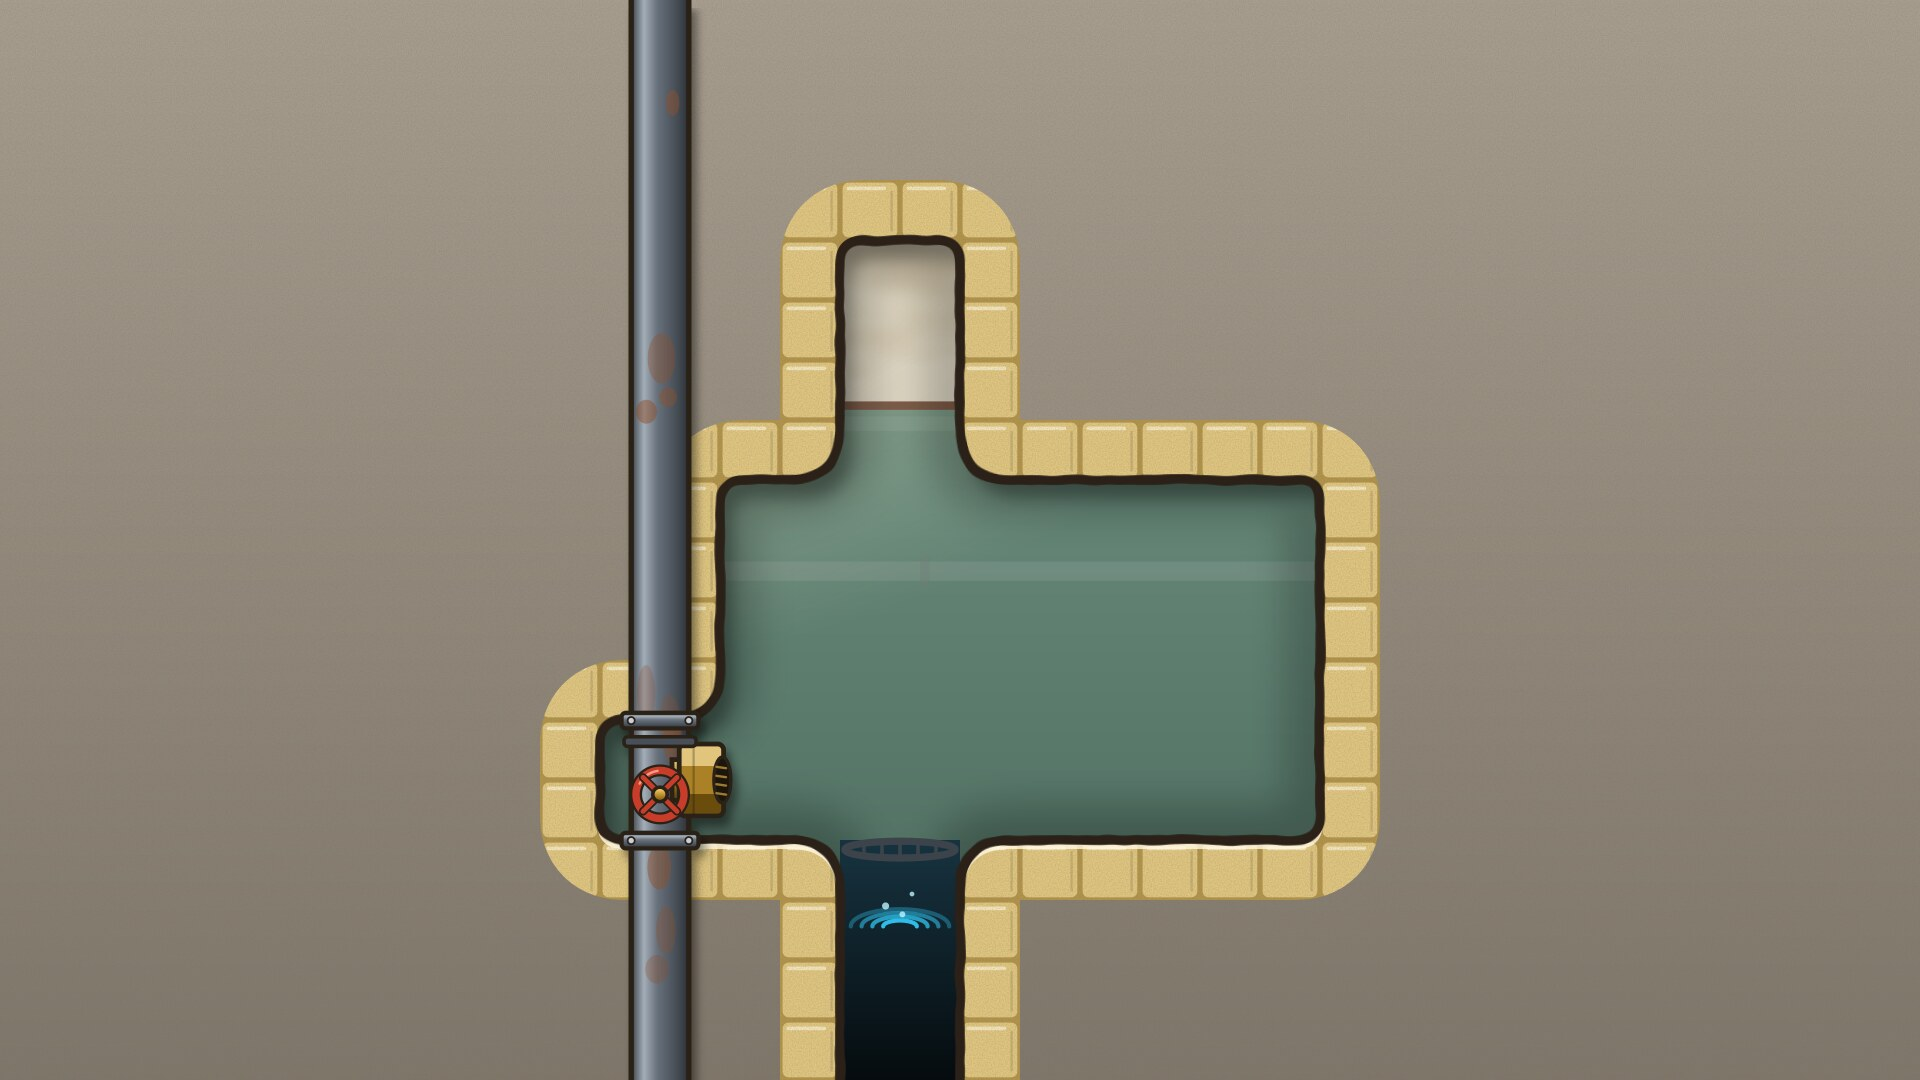
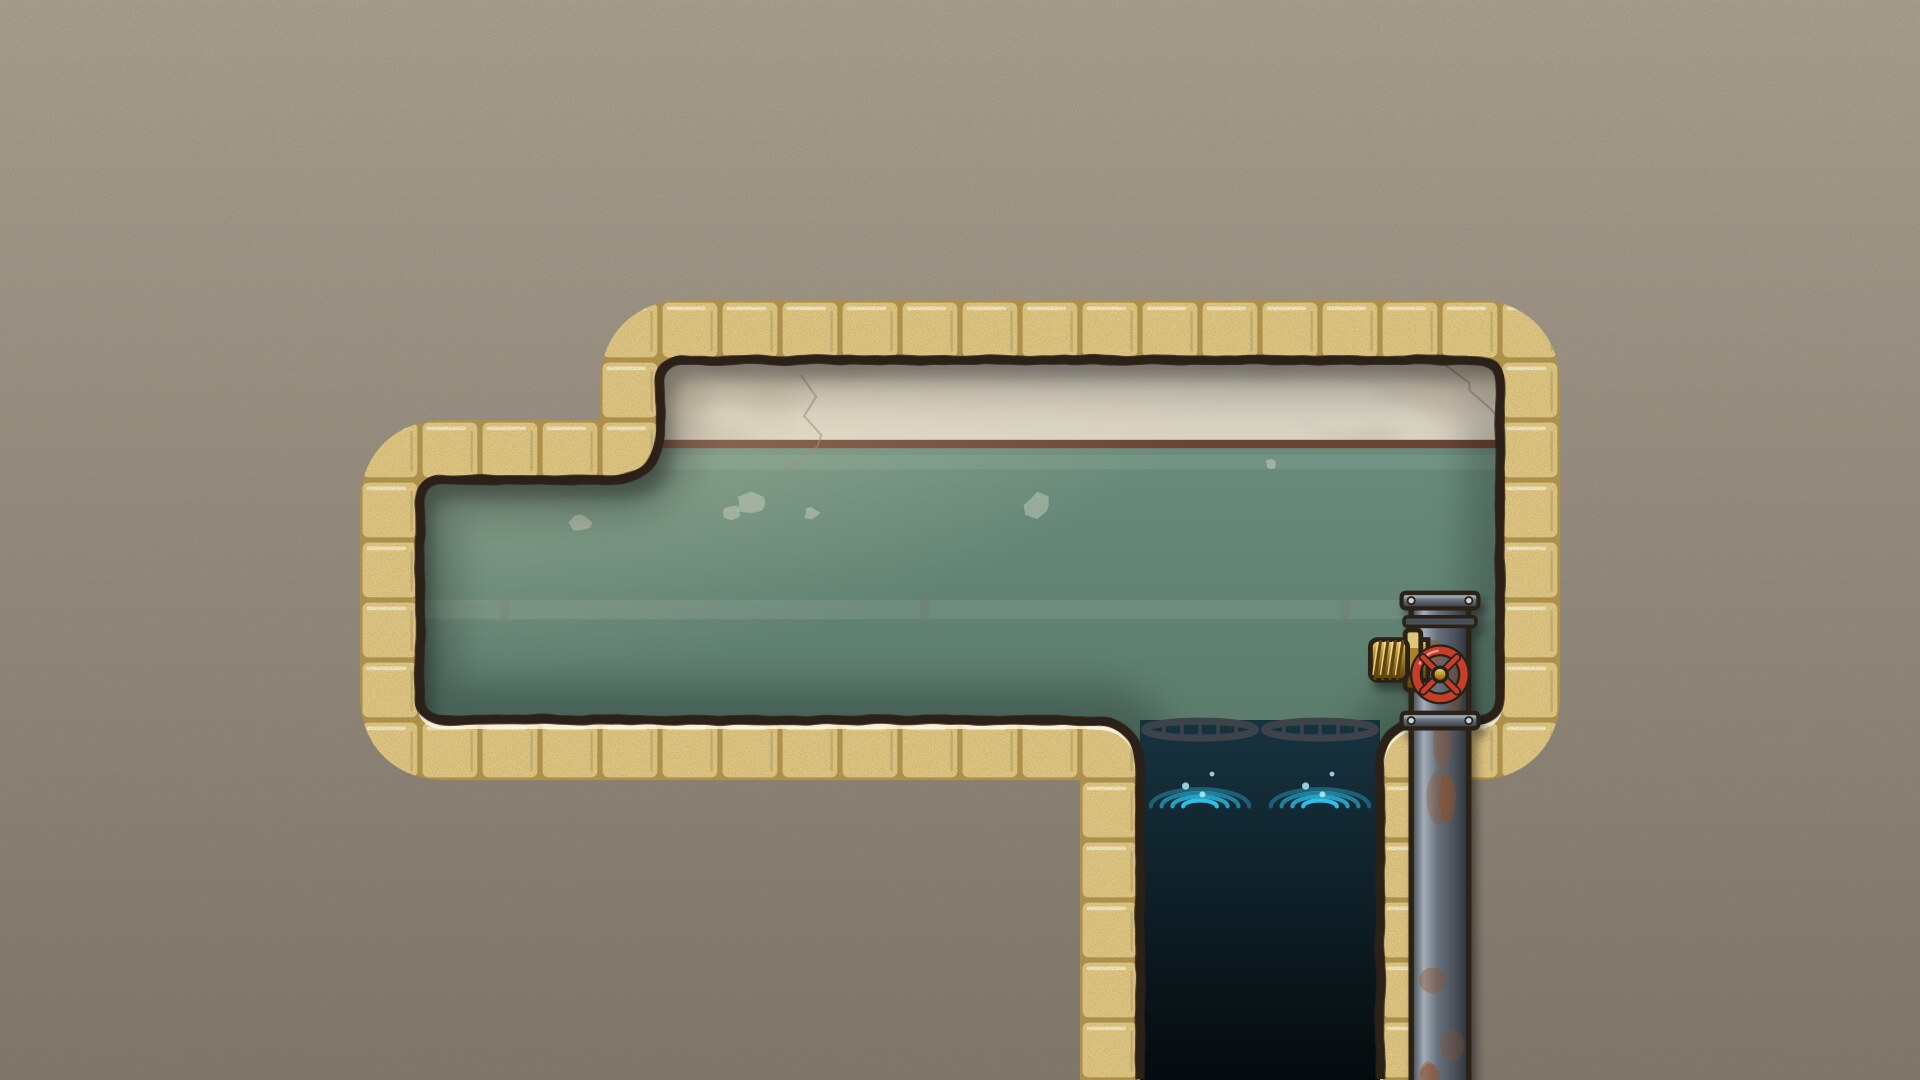
Кв. 6: ядро «муфтой вперёд» в levels/06.lua, отчёты 1–6, новый фон и спрайты деталей
Claude-Session: https://claude.ai/code/session_01KTF9zcDbthXae1taWntBSd

diff --git a/art/export6.py b/art/export6.py
@@ -1,0 +1,36 @@
+#!/usr/bin/env python3
+# -*- coding: utf-8 -*-
+"""art/export6.py — быстрая выгрузка только того, что меняется у кв. 6: фон lvl06 и спрайты её деталей.
+Использует те же функции, что art/export.py (полный экспорт ~2,5 мин)."""
+import os, subprocess, sys
+sys.path.insert(0, os.path.dirname(os.path.abspath(__file__)))
+import gen, gen2, screens2
+from gen import G
+from gen2 import frame, defs2
+
+OUT = os.path.join(gen2.ROOT, 'assets', 'gfx')
+TMP = os.path.join(gen2.ROOT, 'build', 'gfx_svg')
+os.makedirs(TMP, exist_ok=True)
+DEFS = gen.DEFS + defs2(120, 0, 0, 'mint') + screens2.tile_pat('tpM', 120, 'mint') + screens2.tile_pat('tpB', 120, 'blue') + screens2.tile_pat('tpY', 120, 'mustard')
+CR = 240
+
+
+def out(name, body, w, h, extra='', base=True):
+    svg = os.path.join(TMP, name + '.svg')
+    with open(svg, 'w', encoding='utf-8') as f:
+        f.write('<svg xmlns="http://www.w3.org/2000/svg" xmlns:xlink="http://www.w3.org/1999/xlink" width="%d" height="%d" viewBox="0 0 %d %d"><defs>%s%s</defs>%s</svg>'
+                % (w, h, w, h, DEFS if base else gen.DEFS, extra, body))
+    subprocess.run(['rsvg-convert', '-w', str(w), '-h', str(h), '-o', os.path.join(OUT, name + '.png'), svg], check=True)
+    print(name)
+
+
+SIG = {'up': 'u', 'right': 'r', 'down': 'd', 'left': 'l'}
+for lv in screens2.L:
+    if lv['id'] != 6:
+        continue
+    for ob in lv['objects']:
+        if ob['kind'] == 'fitting':
+            sig = ''.join(SIG[d] + ob['ports'][d] for d in ('up', 'right', 'down', 'left') if d in ob['ports'])
+            out('fit_' + sig, G(gen2.fitting2(CR, CR, CR, ob['ports']), filter='url(#dsh)'), 2 * CR, 2 * CR)
+    body, extra, _ = frame(lv, no_lap=True, hud=False, skip=('fixture', 'porcelain', 'fitting'))
+    out('lvl06', body, 1920, 1080, extra, base=False)

diff --git a/reports/metrics.md b/reports/metrics.md
@@ -11,11 +11,11 @@
 | 3 | «Мыло» | 11×8 | 2–5 | 0 | 9040 (≤ 100000) | 43 (25–45) | 80.3% (≥ 35%) | 9 (≥ 2) | 1 | 0 % | 6 (3) | без фаянса: нерешаем ✓ | ✅ |
 | 4 | «Резьба» | 11×8 | 2–4 | 0 | 2700 (≤ 300000) | 26 (30–50) | 68.6% (≥ 40%) | 6 (≥ 2) | 1 | 0 % | 6 (3) | без деталей: нерешаем ✓ | ⚠ ходы вне коридора |
 | 5 | «Лишний выход» | 9×7 | 2–4 | 0 | 1682 (≤ 100000) | 15 (12–40) | 41.7% (≥ 35%) | 1 (≥ 1) | 1 | 0.05 % | 1 (1) | без заглушки: нерешаем ✓; тройник заглушён заранее: нерешаем ✓; ступенька запрещена: нерешаем ✓ | ✅ |
-| 6 | «Намертво» | 8×7 | 3–5 | 0 | 3258 (≤ 1000000) | 17 (12–40) | 70.8% (≥ 50%) | 9 (≥ 3) | 1 | 0 % | 4 (3) | без ниппеля: нерешаем ✓; кран запрещён: нерешаем ✓; деталь не падает: нерешаем ✓ | ✅ |
+| 6 | «Намертво» | 11×5 | 3–5 | 0 | 30969 (≤ 1000000) | 23 (15–40) | 86.2% (≥ 50%) | 10 (≥ 3) | 1 | 0 % | 2 (2) | без ниппеля: нерешаем ✓; без муфты: нерешаем ✓; пара не держит муфту над сливом: нерешаем ✓; ниппель не переходит муфту поверху: нерешаем ✓ | ✅ |
 
 Принятые отклонения (⚠):
 - Кв. 1: ложных веток 0: на 211 состояниях областей ≥ 50 не бывает, ошибки здесь наказываются сразу (слив), а не тихим тупиком.
 - Кв. 2: 19 ходов при коридоре 22–38: перебор 384 вариантов не дал 22+ с сохранением ловушек; решает плейтест.
 - Кв. 4: 26 ходов при коридоре 30–50: старт перенесён к деталям (25.09), дорога без событий 18 → 10 ходов, ложных веток 2 → 6.
 - Кв. 5: минимальная раскладка 9×7: 15 ходов вместо коридора 35–60 — по решению Lao красота важнее длины; идея §6 доказана абляцией «ступенька запрещена».
-- Кв. 6: минимальная раскладка 8×7: 17 ходов вместо коридора 40–70 — красота важнее длины, как в кв. 1 и 5; теорема «он сам себе кран» доказана абляциями «кран запрещён» и «деталь не падает».
+- Кв. 6: ядро «муфтой вперёд» 11×5 (второй поиск 28.09, build/l6c): 23 хода в коридоре; «ага» доказана абляциями «пара не держит муфту над сливом» и «ниппель не переходит муфту поверху».

diff --git a/BUILDLOG.md b/BUILDLOG.md
@@ -182,3 +182,8 @@
 - Разбор по просьбе Lao: кв. 6 не проходит планку «гениальности» (видимые тупики 92 %, умная обезьяна 1,01 %, узкое
   место одно, абляции тавтологичны). Новый инструмент tools/review.lua; разбор кв. 1–5 той же меркой (см. HANDOFF).
   Предложены новые ворота; Lao согласился переделать ядро кв. 6 («Намертво» из §6 + кран), затем кв. 4 и 3.
+- 28.09: второй поиск ядра кв. 6 (build/l6c, 5 направлений + проверка скептиком). Честно прошло одно ядро —
+  «муфтой вперёд» (r9); Lao принял. levels/06.lua: 11×5, длина 3–5, муфта и ниппель, 23 хода, скрытых 68 %
+  (47 % при консервативной разметке), умная обезьяна 0,00 %, наобум 0,000 %, ширина 2, прогулка 4; четыре абляции
+  нерешаемы. run_all 1–6, review 1–6, автопрохождение 01–06 WIN. Арт: новый фон lvl06, спрайты fit_rVlV и fit_rNlN
+  (art/export6.py — быстрая выгрузка только кв. 6).

diff --git a/HANDOFF.md b/HANDOFF.md
@@ -6,6 +6,9 @@
 > (tools/cloud_setup.sh) или `bash tools/setup_sandbox.sh`. Шаг 4 про фоновые процессы в облаке мягче, но после
 > простоя машина пересоздаётся — результаты долгих прогонов сразу пишем в файлы и коммитим.
 
+> **28.09.2026 — кв. 6 пересобрана:** ядро «муфтой вперёд» (build/l6c/README.md) принято Lao и стоит в levels/06.lua,
+> проходит все ворота. Пункт 1 раздела «ДАЛЬШЕ» закрыт; следующий — карточка «7 · Поднимает, но не носит» (п. 2), затем кв. 4, 3.
+
 ## Как продолжить
 1. `mkdir -p /home/claude/lapidus && cd /home/claude && unzip -q /mnt/user-data/uploads/lapidus_checkpoint_phase6a.zip`
    (в архиве папка lapidus/).

diff --git a/WALKTHROUGH_SPOILERS.md b/WALKTHROUGH_SPOILERS.md
@@ -31,7 +31,8 @@
 1. Н→  2. Г→  3. Г→  4. Г↑  5. Г↑  6. Г↑  7. Г→  8. Н←  9. Н↓  10. Н→  
 11. Г→  12. Г→  13. Г↑  14. Г→  15. Н→  
 
-## Кв. 6 · «Намертво» — 17 ходов
+## Кв. 6 · «Намертво» — 23 ходов
 
-1. Н↓  2. Г→  3. Г↑  4. Н↓  5. Г←  6. Н↑  7. Н→  8. Н↑  9. Г←  10. Г↑  
-11. Г←  12. Н←  13. Г↑  14. Г↑  15. Н←  16. Н←  17. Н←  
+1. Г←  2. Н←  3. Н↑  4. Н←  5. Г←  6. Н↓  7. Н←  8. Н↑  9. Н←  10. Н←  
+11. Н←  12. Н←  13. Н←  14. Н↓  15. Н→  16. Н→  17. Н→  18. Н→  19. Н↑  20. Н↑  
+21. Н←  22. Н↓  23. Г→  
